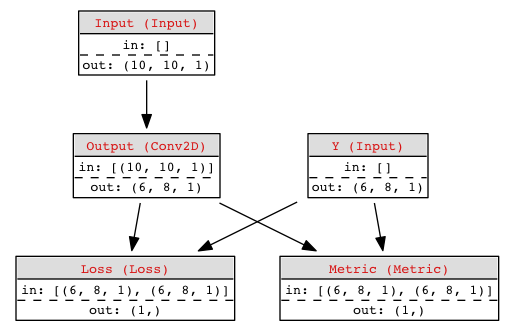
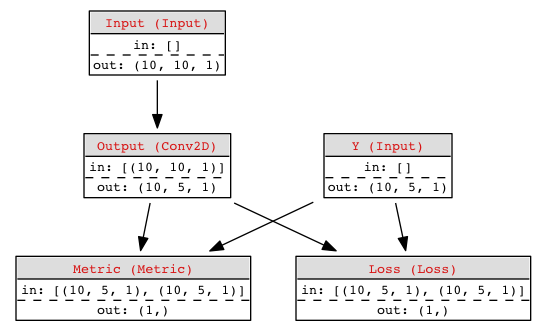
Falta acabar de verificar el stride del conv2d.

diff --git a/scratchnetwork/layers/conv2d.py b/scratchnetwork/layers/conv2d.py
@@ -6,21 +6,25 @@ class Conv2D(Layer):
 		self.initializer = initializer
 		self.num_filters = num_filters
 		self.kernel_size = kernel_size
-		self.stride = stride
+		if isinstance(stride, (list, tuple)):
+			self.stride = stride
+		else:
+			self.stride = (stride, stride)
 		self.padding = padding
 
 		if self.padding == 'valid':
-			self.padding_size = 0
+			self.padding_size = (0, 0)
 
-		def aux(x):
-			x = np.reshape(x, [-1] + list(self.kernel_size) + [self.num_filters])
-			return np.transpose(x, [0, 3, 1, 2])
-		super(Conv2D, self).__init__(node, tuple(['kernels']), aux) #np.reshape(x, [-1, self.num_filters] + list(self.kernel_size)))
+		elif self.padding == 'same':
+			self.padding_size = (self.kernel_size[0] // 2, self.kernel_size[1] // 2)
+
+		super(Conv2D, self).__init__(node, tuple(['kernels']), lambda x: \
+			np.transpose(np.reshape(x, [-1] + list(self.kernel_size) + [self.num_filters]), [0, 3, 1, 2])) #np.reshape(x, [-1, self.num_filters] + list(self.kernel_size)))
 	
 	def computeSize(self):
 		super(Conv2D, self).computeSize()
 		
-		return ((self.in_size[0][0] - self.kernel_size[0] + 2*self.padding_size)//self.stride + 1, (self.in_size[0][1] - self.kernel_size[1] + 2*self.padding_size)//self.stride + 1, self.num_filters)
+		return ((self.in_size[0][0] - self.kernel_size[0] + 2*self.padding_size[0])//self.stride[0] + 1, (self.in_size[0][1] - self.kernel_size[1] + 2*self.padding_size[1])//self.stride[1] + 1, self.num_filters)
 	
 	def compile(self):
 		super(Conv2D, self).compile()
@@ -34,23 +38,25 @@ class Conv2D(Layer):
 	def forward(self, inputs):
 		super(Conv2D, self).forward(inputs)
 
-		self.values.input = inputs[0]
+		self.values.input = np.pad(inputs[0], [(0, 0), (self.padding_size[0], self.padding_size[0]), (self.padding_size[1], self.padding_size[1]), (0, 0)], mode='constant')
 		out = np.zeros(shape=[self.values.input.shape[0]] + list(self.out_size))
-		for i in range(0, self.out_size[0], self.stride):
-			for j in range(0, self.out_size[1], self.stride):
-				iin = self.stride*i
-				jin = self.stride*j
+		for i in range(self.out_size[0]):
+			for j in range(self.out_size[1]):
+				iin = i*self.stride[0]
+				jin = j*self.stride[1]
 				#print(np.reshape(self.values.input[:, iin:(iin + self.kernel_size[0]), jin:(jin + self.kernel_size[1]), :], [-1] + [self.weights.kernels.shape[0]]).shape, self.weights.kernels.shape)
-				out[:, i, j] = np.dot(np.reshape(self.values.input[:, iin:(iin + self.kernel_size[0]), jin:(jin + self.kernel_size[1]), :], [-1] + [self.weights.kernels.shape[0]]), self.weights.kernels)
+				out[:, i, j] = np.dot( \
+					np.reshape(self.values.input[:, iin:(iin + self.kernel_size[0]), jin:(jin + self.kernel_size[1]), :], [-1] + [self.weights.kernels.shape[0]]), \
+					self.weights.kernels)
 		return out
 
 	def derivatives(self, doutput):
 		dw = np.zeros(shape=(self.kernel_size[0]*self.kernel_size[1]*self.num_dim, self.num_filters))
-		dx = np.zeros(shape=[self.values.input.shape[0]] + list(self.in_size[0]))
+		dx = np.zeros(shape=[self.values.input.shape[0]] + list([self.in_size[0][0] + self.padding_size[0]*2, self.in_size[0][1] + self.padding_size[1]*2, self.in_size[0][2]]))
 		for i in range(self.out_size[0]):
 			for j in range(self.out_size[1]):
-				iin = i*self.stride
-				jin = j*self.stride
+				iin = i*self.stride[0]
+				jin = j*self.stride[1]
 				#print(iin, jin, i, j)
 				#print('d1>', self.values.input[:, iin:(iin + self.kernel_size[0]), jin:(jin + self.kernel_size[1]), :].shape)
 				#print('d2>',doutput[:, i, j, :].shape)
@@ -61,7 +67,9 @@ class Conv2D(Layer):
 				# producto cartesiano = [WxHxID, OD]
 				#print(np.reshape(self.values.input[:, iin:(iin + self.kernel_size[0]), jin:(jin + self.kernel_size[1]), :], [-1] + [self.weights.kernels.shape[0]]).shape, \
 				#	np.reshape(doutput[:, i, j, :], [-1, self.num_filters]).shape)
-				dw += np.dot(np.transpose(np.reshape(self.values.input[:, iin:(iin + self.kernel_size[0]), jin:(jin + self.kernel_size[1]), :], [-1] + [self.weights.kernels.shape[0]])), np.reshape(doutput[:, i, j, :], [-1, self.num_filters]))
+				dw += np.dot( \
+					np.transpose(np.reshape(self.values.input[:, iin:(iin + self.kernel_size[0]), jin:(jin + self.kernel_size[1]), :], [-1] + [self.weights.kernels.shape[0]])), \
+					np.reshape(doutput[:, i, j, :], [-1, self.num_filters]))
 
 				# backward
 				# [1, 1x1xOD] x [OD, WxHxID]
@@ -69,5 +77,9 @@ class Conv2D(Layer):
 				#print('=>', np.reshape(doutput[:, i, j, :], [-1, self.num_filters]).shape, np.transpose(self.weights.kernels).shape)
 				#print(np.dot(np.reshape(doutput[:, i, j, :], [-1, self.num_filters]), np.transpose(self.weights.kernels)).shape)
 				#print('->', np.reshape(np.dot(np.reshape(doutput[:, i, j, :], [-1, self.num_filters]), np.transpose(self.weights.kernels)), [-1] + list(self.kernel_size)  + [self.num_dim] ).shape)
-				dx[:, i:(i + self.kernel_size[0]), j:(j + self.kernel_size[1]), :] += np.reshape(np.dot(np.reshape(doutput[:, i, j, :], [-1, self.num_filters]), np.transpose(self.weights.kernels)), [-1] + list(self.kernel_size) + [self.num_dim])
-		return dx, dw
+				dx[:, i:(i + self.kernel_size[0]), j:(j + self.kernel_size[1]), :] += np.reshape( \
+					np.dot( \
+						np.reshape(doutput[:, i, j, :], [-1, self.num_filters]),  \
+						np.transpose(self.weights.kernels)), \
+					[-1] + list(self.kernel_size) + [self.num_dim])
+		return dx[self.padding_size[0]:-self.padding_size[0], self.padding_size[1]:-self.padding_size[1]], dw

diff --git a/scratchnetwork/network.py b/scratchnetwork/network.py
@@ -4,6 +4,7 @@ import copy
 from .node import Node
 from .layers.layer import Layer
 from .optimizers import SGD
+from .backend.exceptions import Exceptions
 class Network(object):
 	# Posibles estados de la red
 	class STATUS(object):
@@ -45,15 +46,15 @@ class Network(object):
 	"""
 	def testHasInputs(self):
 		if len(self.nodes_with_only_outputs) == 0:
-			raise Network.NotInputException("¡El grafo no tiene entrada!"+str([n for n in self.nodes_with_only_outputs]))
+			raise Exceptions.NotInputException("¡El grafo no tiene entrada!"+str([n for n in self.nodes_with_only_outputs]))
 	
 	def testHasOutputs(self):
 		if len(self.nodes_with_only_inputs) == 0:
-			raise Network.NotOutputException("¡El grafo no tiene salida!"+str([n for n in self.nodes_with_only_inputs]))
+			raise Exceptions.NotOutputException("¡El grafo no tiene salida!"+str([n for n in self.nodes_with_only_inputs]))
 
 	def testHasNotConnecteds(self):
 		if len(self.nodes_not_connected) > 0:
-			raise Network.NotConnectedException("¡Existen nodos sin conectar! "+str([n for n in self.nodes_not_connected]))
+			raise Exceptions.NotConnectedException("¡Existen nodos sin conectar! "+str([n for n in self.nodes_not_connected]))
 	
 	def testIsAcyclicGraph(self):
 		# definimos una estructura para saber el camino recorrido
@@ -63,7 +64,7 @@ class Network(object):
 		def exploreNode(node):
 			# Comprovamos que no este en el camino
 			if node in path_nodes:
-				raise Network.IsCyclicGraphException("¡El grafo es ciclico!")
+				raise Exceptions.IsCyclicGraphException("¡El grafo es ciclico!")
 			# Lo añadimos al camino
 			path_nodes.append(node)
 			# Avanzamos al siguiente nodo
@@ -210,30 +211,3 @@ class Network(object):
 
 	def get_weights(self, name):
 		return self.nodes[name].weights
-
-	"""
-		Excepciones
-
-	"""
-	class IsCyclicGraphException(Exception):
-		pass
-	class NotInputException(Exception):
-		pass
-	class NotOutputException(Exception):
-		pass
-	class NotFoundLayer(Exception):
-		pass
-	class InputShapeException(Exception):
-		pass
-	class InputNotFillException(Exception):
-		pass
-	class NumberInputsException(Exception):
-		pass
-	class NotConnectedException(Exception):
-		pass
-	class InconsistentWeightSize(Exception):
-		pass
-	class DifferentInputShape(Exception):
-		pass
-	class LayerHasNoFillMethod(Exception):
-		pass

diff --git a/scratchnetwork/examples/example_2.py b/scratchnetwork/examples/example_2.py
@@ -13,9 +13,9 @@ from scipy import ndimage
 from scipy import misc
 net = Network()
 inputX = net.Node("Input", Input, [10, 10, 1])
-inputY = net.Node("Y", Input, [6, 8, 1])
+inputY = net.Node("Y", Input, [10, 5, 1])
 
-B = net.Node("Output", Conv2D, 1, (5, 3))
+B = net.Node("Output", Conv2D, 1, (5, 3), (1, 2), 'same')
 
 L1 = net.Node("Loss", Loss)
 M1 = net.Node("Metric", Metric)
@@ -34,7 +34,7 @@ net.plot(os.path.basename(sys.argv[0]).split(".")[0]+".png")
 
 # Llenamos
 a = 2*(np.random.rand(1000, 10, 10, 1) - 0.5)
-b = np.zeros(shape=(1000, 6, 8, 1))
+b = np.zeros(shape=(1000, 10, 10, 1))
 
 s, k = 1, 2
 w = [np.exp(-z*z/(2*s*s))/np.sqrt(2*np.pi*s*s) for z in range(-k,k+1)]
@@ -47,11 +47,12 @@ print(w)
 wf = np.flipud(np.fliplr(w))
 for i in range(b.shape[0]):
 	for d in range(a.shape[-1]):
-		b[i,:,:,d] = signal.convolve2d(a[i,:,:,d], wf, 'valid')
+		b[i,:,:,d] = signal.convolve2d(a[i,:,:,d], wf, 'same')
+b = b[:,:,5:,:]
 
 batch_index = 0
 batch_size = 20
-for i in range(2000):
+for i in range(5000):
 	Xaux = a[batch_index:(batch_index + batch_size)]
 	Yaux = b[batch_index:(batch_index + batch_size)]
 	net.train_batch({'Input': Xaux}, {'Y': Yaux})
@@ -68,7 +69,7 @@ kernels = (1./(5*3))*np.sum(np.sum(kernels, axis=0), axis=0)
 kernels = np.flipud(np.fliplr(kernels))
 print(kernels)"""
 
-print(kernels.shape)
+print(kernels[0][0])
 import matplotlib.pylab as plt
 plt.subplot(1,2,1)
 plt.imshow(kernels[0][0])

diff --git a/scratchnetwork/layers/layer.py b/scratchnetwork/layers/layer.py
@@ -1,3 +1,4 @@
+from ..backend.exceptions import Exceptions
 class Layer(object):
 	def __init__(self, node, weights_names=None, func_repr_weights=lambda x: x, params={}):
 		self.node = node
@@ -19,7 +20,7 @@ class Layer(object):
 	def computeSize(self):
 		if 'same_input_shape' in self.params:
 			if self.in_size[:1] == self.in_size[:-1]:
-				raise Network.DifferentInputShape("El tipo de datos en la capa " \
+				raise Exceptions.DifferentInputShape("El tipo de datos en la capa " \
 					 + self.node.name + " debe ser igual en todos los casos. "+str(self.in_size))
 
 	def compile(self):
@@ -32,11 +33,11 @@ class Layer(object):
 
 		if 'number_of_inputs' in self.params:
 			if self.params['number_of_inputs'] < len(self.node.prevs):
-				raise Network.NumberInputsException("Numero de entradas excedidas (" \
+				raise Exceptions.NumberInputsException("Numero de entradas excedidas (" \
 				 + self.params['number_of_inputs'] + ") en " + type(self).__name__ + ":" + self.node.name)
 			
 			elif self.params['number_of_inputs'] > len(self.node.prevs):
-				raise Network.NumberInputsException("Numero de entradas inferiores (" \
+				raise Exceptions.NumberInputsException("Numero de entradas inferiores (" \
 				 + self.params['number_of_inputs'] + ") en " + type(self).__name__ + ":" + self.node.name)
 		
 		if 'regularization' in self.params:

diff --git a/scratchnetwork/layers/input.py b/scratchnetwork/layers/input.py
@@ -1,5 +1,6 @@
 from .layer import Layer
 import numpy as np
+from ..backend.exceptions import Exceptions
 class Input(Layer):
 	def __init__(self, node, shape, params={}):
 		params['compute_backward'] = False
@@ -12,7 +13,7 @@ class Input(Layer):
 
 	def fill(self, data):
 		if data.shape[1:] != self.shape:
-			raise Network.InputShapeException("Los datos en la capa Input: " + self.node.name + " tiene un tamaño incorrecto. \
+			raise Exceptions.InputShapeException("Los datos en la capa Input: " + self.node.name + " tiene un tamaño incorrecto. \
 				Son "+str(data.shape[1:])+" y deberian ser " + str(self.shape) + ".")
 		if self.data is not None:
 			self.old_shape = self.data.shape
@@ -31,7 +32,7 @@ class Input(Layer):
 	def firstForward(self, inputs):
 		super(Input, self).firstForward(inputs)
 		if self.data is None:
-			raise Network.InputNotFillException("La capa Input: " + self.node.name + " no ha sido llenada.")
+			raise Exceptions.InputNotFillException("La capa Input: " + self.node.name + " no ha sido llenada.")
 
 	def forward(self, inputs):
 		return self.data

diff --git a/scratchnetwork/node.py b/scratchnetwork/node.py
@@ -1,5 +1,6 @@
 import numpy as np
 from .layers.layer import Layer
+from .backend.exceptions import Exceptions
 class Node(object):
 	INPUT, OUTPUT, MIDDLE, NOT_CONNECTED = range(4)
 	def __init__(self, network, name, layer, layer_args):
@@ -19,7 +20,7 @@ class Node(object):
 			layer_args = tuple([self] + list(layer_args))
 			self.layer = layer(*layer_args)
 		else:
-			raise Network.NotFoundLayer("La capa que has introducido no existe.")
+			raise Exceptions.NotFoundLayer("La capa que has introducido no existe.")
 
 		# relaciones que tiene el nodo
 		self.prevs = []
@@ -207,7 +208,7 @@ class Node(object):
 		try:
 			self.layer.fill(data)
 		except AttributeError:
-			raise Network.LayerHasNoFillMethod("La capa " + self.node.name + "(" + type(self).__name__ + ") no puede llenarse.")
+			raise Exceptions.LayerHasNoFillMethod("La capa " + self.node.name + "(" + type(self).__name__ + ") no puede llenarse.")
 	
 	def batchSize(self):
 		return self.layer.batch_size

diff --git a/scratchnetwork/backend/exceptions.py b/scratchnetwork/backend/exceptions.py
@@ -1,0 +1,27 @@
+class Exceptions:
+	"""
+		Excepciones
+
+	"""
+	class IsCyclicGraphException(Exception):
+		pass
+	class NotInputException(Exception):
+		pass
+	class NotOutputException(Exception):
+		pass
+	class NotFoundLayer(Exception):
+		pass
+	class InputShapeException(Exception):
+		pass
+	class InputNotFillException(Exception):
+		pass
+	class NumberInputsException(Exception):
+		pass
+	class NotConnectedException(Exception):
+		pass
+	class InconsistentWeightSize(Exception):
+		pass
+	class DifferentInputShape(Exception):
+		pass
+	class LayerHasNoFillMethod(Exception):
+		pass
